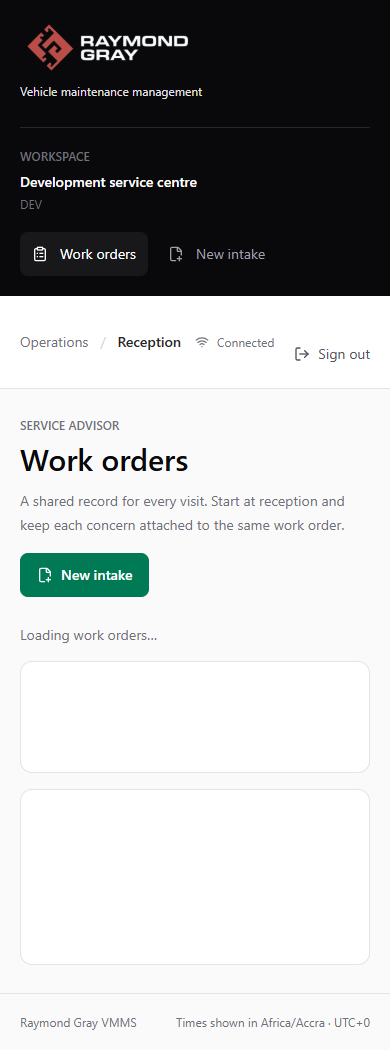
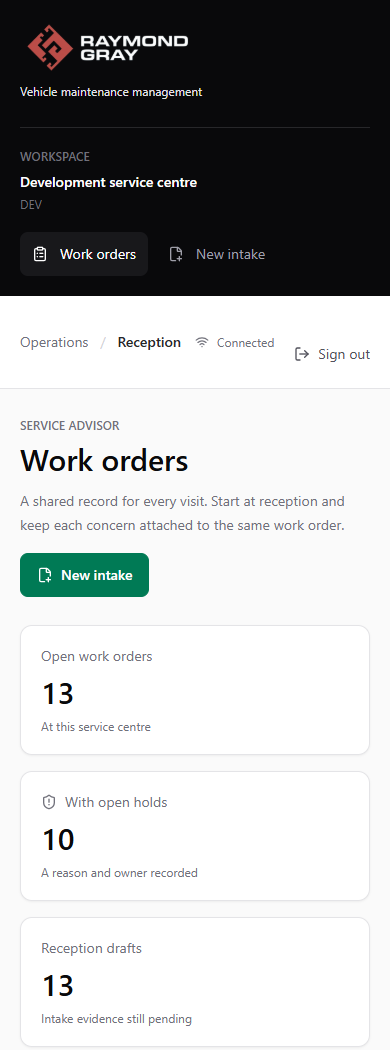
Expire intake drafts and refine hosting review

diff --git a/apps/web/src/drafts.ts b/apps/web/src/drafts.ts
@@ -29,9 +29,10 @@ const draftSchema = z.object({
   draftId: z.string().uuid(),
   commandId: z.string().uuid(),
   fields: intakeFieldsSchema,
-  savedAt: z.string(),
+  savedAt: z.iso.datetime(),
 });
 export type IntakeDraft = z.infer<typeof draftSchema>;
+export const INTAKE_DRAFT_MAX_AGE_MS = 8 * 60 * 60 * 1000;
 const prefix = "vmms:draft:v1:";
 const key = (userId: string, siteId: string) => `${prefix}${userId}:${siteId}`;
 
@@ -43,11 +44,22 @@ export function loadDraft(
     const raw = sessionStorage.getItem(key(userId, siteId));
     if (!raw) return { draft: null, error: null };
     const parsed = draftSchema.safeParse(JSON.parse(raw));
-    if (!parsed.success)
+    if (!parsed.success) {
+      sessionStorage.removeItem(key(userId, siteId));
       return {
         draft: null,
         error: "The saved tab draft could not be read. Start a new draft.",
       };
+    }
+    const savedAt = Date.parse(parsed.data.savedAt);
+    const now = Date.now();
+    if (now - savedAt >= INTAKE_DRAFT_MAX_AGE_MS || savedAt > now + 60_000) {
+      sessionStorage.removeItem(key(userId, siteId));
+      return {
+        draft: null,
+        error: "The saved draft expired and was removed. Start a new draft.",
+      };
+    }
     return { draft: parsed.data, error: null };
   } catch {
     return {

diff --git a/docs/architecture/hosting-strategy.md b/docs/architecture/hosting-strategy.md
@@ -1,6 +1,6 @@
 # Raymond Gray project hosting strategy
 
-Status: provisional engineering recommendation, 8 November 2026. No provider, account, deployment, domain record or secret has been changed. Cloudflare is the preferred default for public edge delivery and compatible web applications; identity runtime and the VMMS API require independent compatibility and operational gates.
+Status: provisional engineering recommendation, 8 November 2026. No provider, account, deployment, domain record or secret has been changed. Cloudflare is the preferred default for public edge delivery and compatible web applications; identity runtime and the VMMS API require independent compatibility and operational gates. A repository-backed source audit has been completed; the required runtime/build spikes are still open.
 
 ## Recommendation
 
@@ -8,7 +8,9 @@ Use Cloudflare as the shared edge platform where it reduces routing and operatio
 
 For this architecture, consider Workers the active application target; reserve Pages for static assets/sites. Cloudflare's current direction supports static assets, SSR and APIs on Workers. Do not start a new multi-project system on legacy Pages where a Worker static-assets deployment is a better fit.
 
-Do not promise that the existing applications can be moved directly with a DNS change. VMMS is React/Vite plus a Fastify API and PostgreSQL. Platform, remote support and vehicle services are Next.js applications with several packages that need runtime checks. Cloudflare's current Next.js guide recommends vinext, which reimplements much of the Next.js API on Vite and is explicitly in beta; OpenNext remains another deployment path. Run compatibility checks and exercise the actual routes, packages, image handling, server actions, background jobs, analytics, caching and required Node APIs before choosing either path. Cloudflare supports Vite/React apps and PostgreSQL through Hyperdrive. The current VMMS API needs a representative Worker adapter/runtime spike; if Fastify or native packages do not behave correctly, host the API in a conventional Linux container while Cloudflare remains its edge front door.
+Do not promise that the existing applications can be moved directly with a DNS change. VMMS is React/Vite plus a Fastify API, PostgreSQL, and a continuously polling evidence-scan worker. Cloudflare Workers supports a subset of Node APIs, including `node:net`, and PostgreSQL can connect through Hyperdrive; that does not make the current Fastify server lifecycle or always-running worker a drop-in Worker deployment. A Workers implementation would need an HTTP Fetch adapter and event-driven scan jobs (for example, a queue consumer), with transaction/RLS, uploads, retries, and recovery proven in a synthetic runtime spike. Until that passes, use a conventional container as the VMMS API/scanner baseline and Cloudflare for the web assets and edge. Vercel Functions offer a broad Node runtime but are request-triggered functions, so they are not a direct host for the current resident scanner loop either.
+
+Platform, remote support and vehicle services are Next.js applications with different dependency and route profiles. Cloudflare's current Next.js guide recommends vinext, which reimplements much of the Next.js API on Vite and is explicitly in beta; OpenNext remains another deployment path. Run compatibility checks and exercise the actual routes, packages, image handling, server actions, background jobs, analytics, caching and required Node APIs before choosing either path.
 
 Keep Keycloak as a persistent container service backed by a separate supported managed PostgreSQL service. Cloudflare Containers can run existing container images, but that is a newer Workers product surface. Validate container lifecycle, session consistency, planned availability, backups, restore, outbound routing, region placement and administration isolation before considering it for the critical identity provider. Until this is proven and accepted, choose an established managed container/VM host for Keycloak and keep Cloudflare DNS/edge in front. Do not host Keycloak in a Worker function.
 
@@ -22,10 +24,10 @@ Vercel remains a strong option for the current Next.js projects because it provi
 | --- | --- | --- |
 | Public company pages/static assets | Cloudflare static assets/Workers | Build, redirects, forms, analytics and SEO checks |
 | VMMS web (React/Vite) | Cloudflare Worker + static assets if browser and API paths pass | Full browser smoke, accessibility, upload, cache and rollback checks |
-| VMMS API (Fastify/PostgreSQL) | Evaluate Worker + Hyperdrive; keep container option open | Fastify lifecycle/plugins, pg 8 version, transactions/RLS, connection behavior, uploads, worker CPU/time and integration tests |
-| Raymond Gray platform (Next.js + Prisma/PostgreSQL + native modules) | Keep current provider; evaluate vinext/OpenNext in an isolated spike | Build output, Prisma adapter, SQLite/native package audit, image optimization, background work, auth OIDC and server actions |
-| Remote support (Next.js) | Keep current provider until vinext/OpenNext compatibility and route checks pass | Contact/intake proxy, media, route protection, build and browser checks |
-| Vehicle services (Next.js) | Keep current provider until vinext/OpenNext compatibility and route checks pass | Auth, protected routes, maps/device APIs, build and browser checks |
+| VMMS API (Fastify/PostgreSQL) | Conventional container for the current server/worker shape; separately spike a Worker redesign with Hyperdrive and Queues | Fastify lifecycle or Fetch adapter, pg, transactions/RLS, connection behavior, uploads, queue retries/recovery, scan integration and rollback |
+| Raymond Gray platform (Next.js + Prisma/PostgreSQL + native modules) | Keep on Vercel for now | Isolated compatibility spike for Next adapter, Prisma/pg, `argon2`, cron replacement, analytics, image optimization, background writes and OIDC |
+| Remote support (Next.js) | Candidate for Cloudflare Workers after an isolated build/route check | Contact relay timeout, forwarded client metadata, failure responses, media, route protection and browser checks |
+| Vehicle services (Next.js) | Candidate for Cloudflare Workers after an isolated build/route check | Booking relay limits/timeouts, auth, protected routes, maps/device behavior, build and browser checks |
 | Shared auth (Keycloak + PostgreSQL) | Persistent managed container/VM host initially; Cloudflare edge/DNS | Secure origin/proxy, stable sessions, supported DB, backup/restore, availability and upgrade drills; then separately assess Cloudflare Containers |
 | Product PostgreSQL databases | Supported managed PostgreSQL, close to their main compute region | PITR/restore, RLS, connection pooling, region/latency and vendor exit evidence |
 
@@ -37,6 +39,18 @@ Vercel remains a strong option for the current Next.js projects because it provi
 4. Compare Cloudflare Container and a conventional managed container host for Keycloak. Include monthly cost, actual region, PostgreSQL backup/restore and admin isolation.
 5. Deploy a staging slice only after review of the concrete provider/configuration, domains, access controls and rollback procedure.
 6. Keep application business commands, PostgreSQL migrations and OIDC contracts provider-neutral; use platform-specific adapters at the hosting boundary.
+
+## Repository-backed compatibility findings
+
+These findings are a source audit, not a successful provider build or deployment. They are based on repository manifests and call paths; `.env` files, credentials and customer records were not inspected.
+
+- `C:\Projects\raymond-gray-vmms\apps\api\src\app.ts` starts Fastify, checks runtime PostgreSQL role/RLS safety, and accepts streamed evidence uploads. `apps/api/src/evidence.ts` uses Node streams and TCP (`node:net`) for ClamAV and runs the scan worker as a persistent polling loop. `apps/api/src/db.ts` uses `pg` transactions with transaction-local tenant/site/actor scope. This makes a container the low-change API baseline; a Worker migration entails a server adapter and durable job model even though Workers exposes Node `net` and Hyperdrive.
+- `C:\Projects\raymond-gray-platform\package.json`, `src/lib/prisma.ts`, `src/app/signin/actions.ts`, and `vercel.json` show Next.js 16, Prisma 7/PostgreSQL adapters, `argon2`, a Vercel SLA cron, and Vercel observability integrations. Keep this app on Vercel until a Workers build proves those integration points. `better-sqlite3` is declared but no direct application import was found in the source audit; its runtime impact remains unverified.
+- `C:\Projects\raymond-gray-remote-support\src\app\api\contact\route.ts` is a small Fetch-based relay with no declared database or background-job package. It is a plausible Cloudflare candidate after route, timeout, request-metadata, and failure-response checks.
+- `C:\Projects\raymond-gray-vehicle-services\src\app\api\booking\route.ts` validates and relays bounded booking requests and does not declare a database package. It is a plausible Cloudflare candidate after adapter, request-limit, timeout, and map/browser checks.
+- `C:\Projects\raymond-gray-auth\compose.yaml`, `README.md`, and `docs\architecture.md` describe a local-only Keycloak/PostgreSQL Compose environment; no production auth application or deployment config exists there. Use a managed Linux container/VM and managed PostgreSQL as the initial candidate. Do not put Keycloak in a Worker or Vercel Function. Cloudflare Containers remain a separate, unproven alternative requiring an operational trial.
+
+The findings do not settle the account plan, database region, cost, recovery targets, approved hostname, or production host. Those remain owner decisions under O-006/USER-024.
 
 ## Open owner decisions
 
@@ -53,6 +67,9 @@ Vercel remains a strong option for the current Next.js projects because it provi
 - [Cloudflare React/Vite Worker integration](https://developers.cloudflare.com/workers/vite-plugin/tutorial/)
 - [Cloudflare PostgreSQL and Hyperdrive](https://developers.cloudflare.com/hyperdrive/examples/connect-to-postgres/)
 - [Cloudflare Workers best practices for remote databases](https://developers.cloudflare.com/workers/best-practices/workers-best-practices/)
+- [Cloudflare Workers `node:net` API](https://developers.cloudflare.com/workers/runtime-apis/nodejs/net/)
+- [Cloudflare Workers TCP sockets](https://developers.cloudflare.com/workers/runtime-apis/tcp-sockets/)
+- [Cloudflare Queues and Workflows for background work](https://developers.cloudflare.com/workers/best-practices/workers-best-practices/)
 - [Cloudflare Containers overview](https://developers.cloudflare.com/containers/)
 - [Cloudflare Container instance limits](https://developers.cloudflare.com/containers/platform/limits/)
 - [Cloudflare Vite/Next framework configuration](https://developers.cloudflare.com/workers/framework-guides/automatic-configuration/)
@@ -60,3 +77,5 @@ Vercel remains a strong option for the current Next.js projects because it provi
 - [Cloudflare Next.js migration guide](https://developers.cloudflare.com/workers/static-assets/migration-guides/vercel-to-workers/nextjs/)
 - [OpenNext Cloudflare adapter and feature support](https://opennext.js.org/cloudflare)
 - [Vercel Functions runtime/region behavior and limits](https://vercel.com/docs/functions)
+- [Vercel Functions payload limit and direct-upload guidance](https://vercel.com/docs/errors/function_payload_too_large)
+- [Keycloak production configuration](https://www.keycloak.org/server/configuration-production)

diff --git a/docs/delivery/implementation-tracker.md b/docs/delivery/implementation-tracker.md
@@ -15,9 +15,9 @@ The product goal remains open until the specification, approved rollout scope, o
 | Tasks including epics | configuration-required | 17 |
 | Tasks including epics | deferred | 5 |
 | Tasks including epics | implemented | 4 |
-| Tasks including epics | in-progress | 15 |
+| Tasks including epics | in-progress | 16 |
 | Tasks including epics | not-applicable | 1 |
-| Tasks including epics | planned | 514 |
+| Tasks including epics | planned | 513 |
 | Tasks including epics | verified | 14 |
 
 ## 0-discovery
@@ -66,7 +66,7 @@ The product goal remains open until the specification, approved rollout scope, o
 | F-008 | Build responsive shell and accessible controls | verified | F-001 | docs/verification/responsive-shell.md: 15 Edge viewport/orientation and 200%/400% zoom checks pass for public sign-in only; keyboard focus and physical-device limitations are recorded, scripts/browser-smoke.mjs, docs/verification/browser/results.json, docs/verification/responsive-shell.md, docs/verification/browser/work-order-phone.png, docs/verification/browser/queue-phone.png, docs/verification/browser/intake-phone.png |
 | F-009 | Create domain, database and browser verification entry points | verified | F-001, F-003 | apps/api/test/foundation.test.ts: real PostgreSQL integration entry point for domain, tenancy, command, and rollback behavior, apps/web/scripts/verify-responsive.mjs: repeatable Microsoft Edge responsive public sign-in entry point, docs/verification/checks/results.json: local typecheck, build, traceability, and API integration results, scripts/browser-smoke.mjs, docs/verification/browser/results.json, apps/api/test/foundation.test.ts, docs/verification/checks/results.json |
 | F-010 | Configure CI and secret-safe development environment | implemented | F-009 | apps/api/test/foundation.test.ts: real PostgreSQL integration entry point for domain, tenancy, command, and rollback behavior, apps/web/scripts/verify-responsive.mjs: repeatable Microsoft Edge responsive public sign-in entry point, docs/verification/checks/results.json: full local typecheck, build, traceability, and API integration results, .github/workflows/verify.yml, package.json, .env.example, docs/guides/development.md, apps/api/test/config.test.ts, docs/verification/checks/results.json |
-| F-011 | Implement saved drafts with explicit recovery state | in-progress | F-008, F-005 | scripts/browser-smoke.mjs, docs/verification/browser/results.json, apps/web/src/pages/intake.tsx, docs/architecture/platform-strategy.md |
+| F-011 | Implement saved drafts with explicit recovery state | in-progress | F-008, F-005 | scripts/browser-smoke.mjs, docs/verification/browser/results.json, apps/web/src/pages/intake.tsx, docs/architecture/platform-strategy.md, apps/web/src/drafts.ts (eight-hour maximum age for session-scoped intake drafts), scripts/browser-smoke.mjs (expired draft removal scenario), docs/verification/browser/results.json (17 local browser checks; draft expiry included) |
 | BUILD-BR-01 | One controlling work order per visit | planned | F-002, F-009, F-003, F-005, F-006 |  |
 | CHECK-BR-01 | Verify One controlling work order per visit | planned | BUILD-BR-01 |  |
 | BUILD-BR-13 | Append or version historical records | planned | F-002, F-009, F-003, F-005, F-006 |  |
@@ -211,7 +211,7 @@ The product goal remains open until the specification, approved rollout scope, o
 | CHECK-R-M-0166 | Verify Technical lead review workbench | planned | BUILD-R-M-0166 |  |
 | BUILD-R-M-0184 | Traceable diagnostic uploads and indexed metadata | planned | F-002, F-009, F-003, F-005, F-006, BUILD-R-M-0130, BUILD-R-M-0137 |  |
 | CHECK-R-M-0184 | Verify Traceable diagnostic uploads and indexed metadata | planned | BUILD-R-M-0184 |  |
-| P-004 | Verify interrupted draft recovery and personal-data expiry | in-progress | F-011 | docs/verification/browser/results.json |
+| P-004 | Verify interrupted draft recovery and personal-data expiry | in-progress | F-011 | docs/verification/browser/results.json, scripts/browser-smoke.mjs (expired draft deletion and no-recovery scenario), docs/verification/browser/results.json (17 local browser checks; draft expiry included) |
 | E16 | Approved vehicle-owner launch portal | planned |  |  |
 | CUST-001 | Define owner identity and publication contracts | in-progress | F-002, D-007 | docs/architecture/vehicle-owner-access.md |
 | CUST-002 | Implement owner relationship lifecycle commands | in-progress | CUST-001, F-003, F-005, F-006, F-007 | apps/api/test/foundation.test.ts: PostgreSQL lifecycle, authorization, replay, expiry and rollback integration tests, docs/architecture/vehicle-owner-access.md: site-local implementation boundary and operational launch gates |
@@ -568,7 +568,7 @@ The product goal remains open until the specification, approved rollout scope, o
 | CHECK-USER-020 | Review launch authentication methods | planned | AUTH-010 |  |
 | CHECK-USER-021 | Review responsive art direction and browser evidence | planned | RESP-004, RESP-005 |  |
 | IDP-006 | Prove production identity operations and recovery | planned | IDP-005 |  |
-| HOST-001 | Run the per-service Cloudflare and Vercel compatibility review | planned |  |  |
+| HOST-001 | Run the per-service Cloudflare and Vercel compatibility review | in-progress |  | docs/architecture/hosting-strategy.md (repository-backed service matrix; runtime/build compatibility spikes remain open) |
 | HOST-002 | Review concrete staging hosting and recovery plan | planned | HOST-001 |  |
 
 ## 7-platforms

diff --git a/docs/decisions/review-register.md b/docs/decisions/review-register.md
@@ -32,5 +32,6 @@ The product owner resolves scope, brand, data inventory, procurement, hosting an
 | REV-023 | Hosting provider across Raymond Gray projects | On 8 November 2026, the user asked whether projects should use Cloudflare Workers/Pages instead of Vercel and noted Cloudflare manages the domain. Provisional recommendation is Cloudflare edge/web per service where compatible; persistent identity runtime and API still require their own proof. | Per-service compatibility, cost, region and recovery plan | Assessment in progress; no deployment or DNS change |
 | REV-024 | Future restrained UI color accents | The user requested more colors as small sticker/tag or line accents on cards, not full-color blocks, and explicitly said not to apply them now. | Later visual system and operational state markers | Deferred |
 | REV-025 | Evidence storage, malware scanning, limits and recovery | Engineering default is same-origin streamed upload into a private S3-compatible quarantine store, with a separate scan worker, immutable metadata, current-authorization downloads and object/metadata reconciliation. API and worker must use separate prefix-limited object-store identities; local S3 API integration may use loopback-only S3Mock and ClamAV with synthetic data, which does not prove production IAM, KMS, versioning or backup behavior. The MinIO Community repository was archived in April 2026 and is not a new-project default. Production provider, IAM policy, scanner/signature operations, file allowlist, maximum size, quotas, retention/legal hold, independent backup destination, restore targets and named operator require review. | F-007, CUST-002 through CUST-009, attachment uploads, download, export and launch recovery | Engineering design accepted; production configuration and operational policy pending review |
+| REV-026 | Maximum lifetime for personal data in a browser intake draft | Proposed engineering default: eight hours since the last save, stored in tab-scoped session storage and cleared on sign-out or site switch. Expired drafts are deleted on the next load. Confirm or change the duration before shared-device pilot; tab close remains an immediate browser cleanup boundary. | F-011 draft behavior, shared-device pilot and P-004 acceptance | Proposed; owner review pending |
 
 The owner answered REV-001 through REV-003 in chat on 7 November 2026. Other questions retain their pending status. No elapsed-time rule counts as approval.

diff --git a/docs/architecture/system-design.md b/docs/architecture/system-design.md
@@ -77,7 +77,7 @@ Audit and signed decisions deny update/delete to the runtime role. Corrections a
 
 An upload intent is not accepted evidence. Finalization checks object identity, checksum, size, permitted content, malware result and record scope. Only accepted private evidence can satisfy a gate. Access is short-lived and authorised per record. Object-store writes and SQL cannot be one transaction, so explicit pending, rejected and accepted states handle interrupted uploads. The [evidence storage design](evidence-storage.md) defines the stream, quarantine, scan-worker, access-audit and backup boundary.
 
-Saved local drafts are account/site-bound proposals with visible storage state, expiry policy, retry command IDs and sign-out cleanup. Default to session-only content until the shared-device persistence policy is approved. An optional deliberate device save must warn about shared hardware. The service worker caches static assets only; it must not replay arbitrary API mutations. The [platform strategy](platform-strategy.md) governs later native and sync work.
+Saved local drafts are account/site-bound proposals with visible storage state, retry command IDs and sign-out cleanup. Intake recovery is opt-in and tab-scoped; the current implementation expires data eight hours after its last save. That lifetime is a proposed shared-device policy pending owner review in [REV-026](../decisions/review-register.md). The service worker caches static assets only; it must not replay arbitrary API mutations. The [platform strategy](platform-strategy.md) governs later native and sync work.
 
 ## Synthesis decision
 
